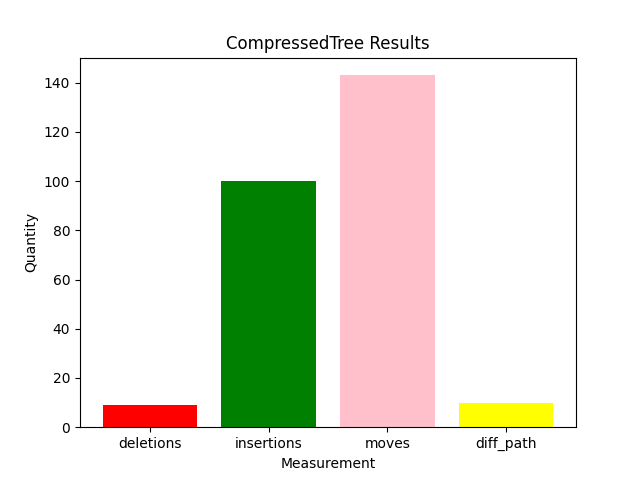
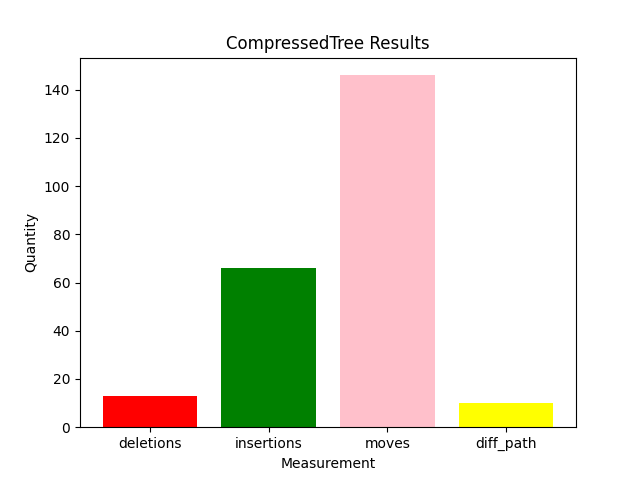
refactor: modified spec.py for java code
Updated all case studies and modified spec.py to analyze more java package usages.

diff --git a/demos/java_case_studies/cucumber.jvm/importC5/demo_result/CompressedTree.java b/demos/java_case_studies/cucumber.jvm/importC5/demo_result/CompressedTree.java
@@ -4,16 +4,15 @@ import io.cucumber.core.event.TestRunFinished;
 import io.cucumber.core.event.TestRunStarted;
 import io.cucumber.core.event.TestSourceRead;
 import cucumber.runner.EventBus;
-import cucumber.runtime.CucumberException;
+import io.cucumber.core.exception.CucumberException;
 import io.cucumber.core.feature.CucumberFeature;
 import io.cucumber.core.feature.CucumberPickle;
 import io.cucumber.core.feature.FeatureLoader;
 import io.cucumber.core.filter.Filters;
-import io.cucumber.core.io.ClassFinder;
+import cucumber.runtime.ClassFinder;
 import io.cucumber.core.io.MultiLoader;
 import io.cucumber.core.io.ResourceLoader;
 import io.cucumber.core.io.ResourceLoaderClassFinder;
-import io.cucumber.core.options.Constants;
 import io.cucumber.core.options.CucumberOptionsAnnotationParser;
 import io.cucumber.core.options.CucumberProperties;
 import io.cucumber.core.options.CucumberPropertiesParser;
@@ -26,8 +25,8 @@ import cucumber.runtime.FeaturePathFeatureSupplier;
 import io.cucumber.core.runtime.ObjectFactorySupplier;
 import io.cucumber.core.runtime.ScanningTypeRegistryConfigurerSupplier;
 import io.cucumber.core.runtime.ThreadLocalObjectFactorySupplier;
-import cucumber.runner.ThreadLocalRunnerSupplier;
-import cucumber.runner.TimeServiceEventBus;
+import io.cucumber.core.runtime.ThreadLocalRunnerSupplier;
+import io.cucumber.core.runtime.TimeServiceEventBus;
 import io.cucumber.core.runtime.TypeRegistryConfigurerSupplier;
 import org.apiguardian.api.API;
 import org.testng.SkipException;
@@ -38,10 +37,6 @@ import static java.lang.String.format;
 import static java.util.stream.Collectors.toList;
 import cucumber.runner.TimeService;
 import cucumber.runtime.BackendModuleBackendSupplier;
-import cucumber.runtime.Env;
-import gherkin.events.PickleEvent;
-import io.cucumber.core.options.EnvironmentOptionsParser;
-import java.util.ArrayList;
 import cucumber.runner.*;
 import cucumber.runtime.*;
 

diff --git a/demos/java_case_studies/maven/importC4/demo_result/CompressedTree.java b/demos/java_case_studies/maven/importC4/demo_result/CompressedTree.java
@@ -39,7 +39,6 @@ import org.eclipse.aether.impl.RemoteRepositoryManager;
 import org.sonatype.aether.impl.RepositoryEventDispatcher;
 import org.eclipse.aether.impl.VersionResolver;
 import org.eclipse.aether.transfer.ArtifactNotFoundException;
-import org.sonatype.aether.util.DefaultRequestTrace;
 import org.eclipse.aether.artifact.ArtifactProperties;
 import org.eclipse.aether.artifact.DefaultArtifact;
 import org.eclipse.aether.artifact.DefaultArtifactType;
@@ -57,7 +56,6 @@ import org.eclipse.aether.resolution.VersionResult;
 import org.eclipse.aether.spi.locator.Service;
 import org.eclipse.aether.spi.locator.ServiceLocator;
 import org.eclipse.aether.spi.log.Logger;
-import org.sonatype.aether.spi.log.NullLogger;
 import java.util.HashMap;
 import javax.inject.Inject;
 import javax.inject.Named;
@@ -66,7 +64,6 @@ import org.eclipse.aether.resolution.ArtifactDescriptorPolicy;
 import org.eclipse.aether.resolution.ArtifactDescriptorPolicyRequest;
 import org.eclipse.aether.spi.log.LoggerFactory;
 import org.eclipse.aether.spi.log.NullLoggerFactory;
-import org.sonatype.aether.RepositoryListener;
 
 /*
  * Licensed to the Apache Software Foundation (ASF) under one

diff --git a/merge-algorithms/CompressedTree/spec.py b/merge-algorithms/CompressedTree/spec.py
@@ -52,7 +52,7 @@ class Java(Lang):
         # Finds the specified target node in the tree
         # print(target.get_full_dir())
 
-        if (suspicious and (target.get_full_dir() not in usages and target.get_full_dir()!="*")):
+        if (suspicious and (target.get_full_dir() not in usages) and (target.get_full_dir()[-1]!="*")):
             pass
         else:
             for item in node.get_children():
@@ -93,6 +93,22 @@ class Java(Lang):
         usage_query=Java_Lang.query("""
         ((method_invocation
             name: (identifier) @type)
+            (#match? @type ""))
+        """)
+
+        usages_byte+=usage_query.captures(tree.root_node)
+
+        usage_query=Java_Lang.query("""
+        ((marker_annotation
+            name: (identifier) @type)
+            (#match? @type ""))
+        """)
+
+        usages_byte+=usage_query.captures(tree.root_node)
+
+        usage_query=Java_Lang.query("""
+        ((method_reference
+            (identifier) @type)
             (#match? @type ""))
         """)
 

diff --git a/demos/java_case_studies/maven/importC1/demo_result/CompressedTree.java b/demos/java_case_studies/maven/importC1/demo_result/CompressedTree.java
@@ -11,7 +11,6 @@ import org.apache.maven.artifact.repository.metadata.Versioning;
 import org.apache.maven.artifact.repository.metadata.io.xpp3.MetadataXpp3Reader;
 import org.codehaus.plexus.component.annotations.Component;
 import org.codehaus.plexus.component.annotations.Requirement;
-import org.codehaus.plexus.util.IOUtil;
 import org.eclipse.aether.RepositoryEvent.EventType;
 import org.eclipse.aether.RepositoryEvent;
 import org.eclipse.aether.RepositorySystemSession;
@@ -41,8 +40,6 @@ import org.eclipse.aether.version.InvalidVersionSpecificationException;
 import org.eclipse.aether.version.Version;
 import org.eclipse.aether.version.VersionConstraint;
 import org.eclipse.aether.version.VersionScheme;
-import org.sonatype.aether.util.DefaultRequestTrace;
-import org.sonatype.aether.util.listener.DefaultRepositoryEvent;
 import org.sonatype.aether.spi.log.NullLogger;
 
 /*

diff --git a/demos/java_case_studies/cucumber.jvm/importC6/demo_result/CompressedTree.java b/demos/java_case_studies/cucumber.jvm/importC6/demo_result/CompressedTree.java
@@ -1,6 +1,6 @@
 package io.cucumber.examples.testng;
-import io.cucumber.core.api.TypeRegistryConfigurer;
-import io.cucumber.core.api.TypeRegistry;
+import cucumber.api.TypeRegistryConfigurer;
+import cucumber.api.TypeRegistry;
 import io.cucumber.datatable.DataTableType;
 import io.cucumber.cucumberexpressions.ParameterType;
 import java.text.SimpleDateFormat;
@@ -11,7 +11,6 @@ import static io.cucumber.examples.testng.RpnCalculatorStepdefs.Entry;
 import static java.text.DateFormat.MEDIUM;
 import static java.text.DateFormat.getDateInstance;
 import static java.util.Locale.ENGLISH;
-import io.cucumber.examples.testng.ShoppingSteps.Price;
 import io.cucumber.examples.testng.ShoppingSteps.Grocery;
 
 

diff --git a/demos/java_case_studies/TwelveMonkeys/importC2/demo_result/CompressedTree.java b/demos/java_case_studies/TwelveMonkeys/importC2/demo_result/CompressedTree.java
@@ -11,7 +11,6 @@ import javax.servlet.http.HttpServletRequest;
 import javax.servlet.http.HttpServletResponse;
 import java.awt.image.BufferedImage;
 import java.io.ByteArrayInputStream;
-import java.io.ByteArrayOutputStream;
 import java.io.IOException;
 import java.io.InputStream;
 import java.util.Arrays;
@@ -23,7 +22,6 @@ import com.twelvemonkeys.io.FastByteArrayOutputStream;
 import org.mockito.invocation.InvocationOnMock;
 import org.mockito.stubbing.Answer;
 import java.awt.image.IndexColorModel;
-import java.lang.reflect.InvocationTargetException;
 import javax.swing.*;
 
 

diff --git a/demos/java_case_studies/maven/importC2/demo_result/CompressedTree.java b/demos/java_case_studies/maven/importC2/demo_result/CompressedTree.java
@@ -90,8 +90,6 @@ import org.eclipse.aether.util.repository.DefaultMirrorSelector;
 import org.eclipse.aether.util.repository.DefaultProxySelector;
 import org.eclipse.aether.util.repository.SimpleArtifactDescriptorPolicy;
 import org.eclipse.aether.util.repository.SimpleResolutionErrorPolicy;
-import org.apache.maven.repository.internal.MavenRepositorySystemSession;
-import org.sonatype.aether.repository.Authentication;
 import org.sonatype.aether.repository.NoLocalRepositoryManagerException;
 import org.sonatype.aether.spi.localrepo.LocalRepositoryManagerFactory;
 

diff --git a/demos/java_case_studies/cucumber.jvm/importC1/demo_result/CompressedTree.java b/demos/java_case_studies/cucumber.jvm/importC1/demo_result/CompressedTree.java
@@ -29,8 +29,6 @@ import javax.xml.transform.stream.StreamResult;
 import java.io.Closeable;
 import java.io.IOException;
 import java.io.OutputStream;
-import java.io.PrintWriter;
-import java.io.StringWriter;
 import java.io.Writer;
 import java.net.URI;
 import java.time.Duration;
@@ -43,7 +41,6 @@ import java.util.UUID;
 import static java.time.Duration.ZERO;
 import static java.time.format.DateTimeFormatter.ISO_INSTANT;
 import static java.util.Locale.ROOT;
-import java.net.URL;
 import static io.cucumber.core.exception.ExceptionUtils.printStackTrace;
 
 

diff --git a/demos/java_case_studies/openhtmltopdf/importC1/demo_result/CompressedTree.java b/demos/java_case_studies/openhtmltopdf/importC1/demo_result/CompressedTree.java
@@ -31,8 +31,6 @@ import com.openhtmltopdf.layout.PersistentBFC;
 import com.openhtmltopdf.layout.Styleable;
 import com.openhtmltopdf.newtable.TableRowBox;
 import com.openhtmltopdf.util.ThreadCtx;
-import com.openhtmltopdf.bidi.BidiReorderer;
-import com.openhtmltopdf.bidi.BidiSplitter;
 /*
  * {{{ header & license
  * Copyright (c) 2004, 2005 Joshua Marinacci

diff --git a/demos/java_case_studies/antlr4/importC8/demo_result/CompressedTree.java b/demos/java_case_studies/antlr4/importC8/demo_result/CompressedTree.java
@@ -14,7 +14,6 @@ import org.antlr.v4.runtime.tree.ParseTree;
 import org.antlr.v4.runtime.tree.ParseTreeListener;
 import org.antlr.v4.runtime.tree.ParseTreeWalker;
 import org.junit.Assert;
-import org.junit.Ignore;
 import org.junit.Test;
 import java.lang.reflect.Constructor;
 import java.lang.reflect.Method;

diff --git a/demos/java_case_studies/cucumber.jvm/importC3/demo_result/CompressedTree.java b/demos/java_case_studies/cucumber.jvm/importC3/demo_result/CompressedTree.java
@@ -11,11 +11,6 @@ import java.util.Collection;
 import java.util.List;
 import java.util.Set;
 import java.util.regex.Pattern;
-import cucumber.runtime.formatter.PluginFactory;
-import java.util.Collections;
-import java.util.HashMap;
-import java.util.Map;
-import java.util.TreeSet;
 
 
 

diff --git a/demos/java_case_studies/antlr4/importC7/demo_result/CompressedTree.java b/demos/java_case_studies/antlr4/importC7/demo_result/CompressedTree.java
@@ -10,7 +10,6 @@ import org.antlr.v4.runtime.misc.NotNull;
 import org.antlr.v4.runtime.misc.Nullable;
 import java.io.IOException;
 import java.io.OutputStream;
-import org.antlr.v4.runtime.RuleContext;
 import org.antlr.v4.runtime.misc.Interval;
 import org.antlr.v4.runtime.*;
 /*
